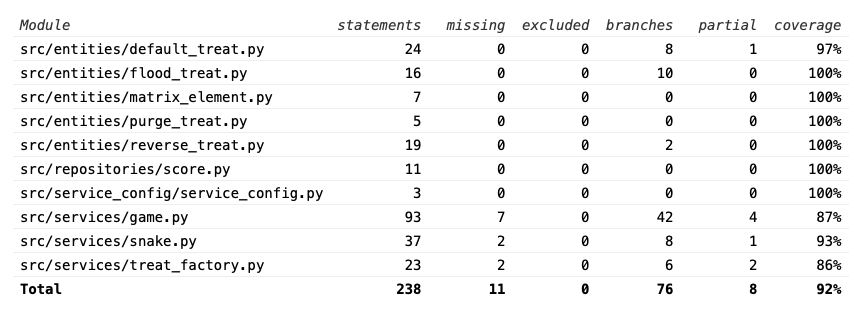
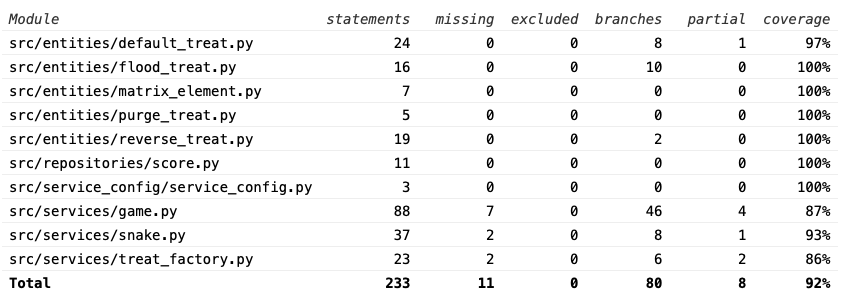
new coverage report and removed coordinate filter functions in game

diff --git a/src/services/game.py b/src/services/game.py
@@ -2,7 +2,6 @@ from random import choice
 from entities.matrix_element import MatrixElement
 from services.treat_factory import TreatFactory
 from service_config.service_config import GAME_OVER
-treat_factory=TreatFactory()
 snake_body=MatrixElement(None,"snake",0,0,0)
 empty=MatrixElement(None,"empty",0,0,0)
 
@@ -70,32 +69,26 @@ class Game:
                 if elem.type!="snake":
                     i[j]=empty
 
-    def clear_game_matrix(self):
+    def remove_previous_snake(self):
         """This clears previous snake blocks. Used before rendering new snake position."""
         for i in self.game_matrix:
             for j, elem in enumerate(i):
                 if elem.type=="snake":
                     i[j]=empty
 
-    def free_filter(self, coordinate):
-        """returns true if given coordinates are empty on game_matrix."""
-        return self.game_matrix[coordinate[0]][coordinate[1]].type=="empty"
-
-    def no_snake_filter(self, coordinate):
-        """Returns true if given coordinates are not coordinates of a
-        snake body block"""
-        return self.game_matrix[coordinate[0]][coordinate[1]].type!="snake"
-
     def get_non_snake_coordinates(self):
         """This method is used to find coordinates [y,x] where there are no
         snake_body blocks."""
-        non_snake_coordinates=list(filter(self.no_snake_filter, self.coordinates))
+        non_snake_coordinates=[
+        x[:] for x in self.coordinates if
+        self.game_matrix[x[0]][x[1]].type!="snake"]
         return non_snake_coordinates
 
     def get_empty_coordinates(self):
         """This method returns empty coordinates [y, x] on game_matrix. Empty
         coordinates mean the element's type in that location is empty"""
-        free_coordinates = list(filter(self.free_filter, self.coordinates))
+        free_coordinates = [x[:] for x in self.coordinates if
+        self.game_matrix[x[0]][x[1]].type=="empty"]
         return free_coordinates
 
     def new_treat(self):
@@ -127,7 +120,7 @@ class Game:
             return True
         return False
 
-    def update_snake_position(self,snake):
+    def draw_snake(self,snake):
         """This method renders snake's body on the game_matrix."""
         for block in snake:
             self.game_matrix[block[0]][block[1]]=snake_body
@@ -147,7 +140,7 @@ class Game:
             return GAME_OVER
         if self.is_treat(head):
             self.eat_treat(self.game_matrix[head[0]][head[1]])
-        self.clear_game_matrix()
-        self.update_snake_position(snake_image)
+        self.remove_previous_snake()
+        self.draw_snake(snake_image)
         self.new_treat()
         return self.game_matrix

diff --git a/src/services/snake.py b/src/services/snake.py
@@ -15,6 +15,7 @@ class Snake:
         self.start_position=position[:]
         self.position=position[:]
         self.direction=1
+
     def reset(self):
         """This method resets snake's direction to 1,, pending_blocks to 0
         and position to the given position when the class instance was created."""
